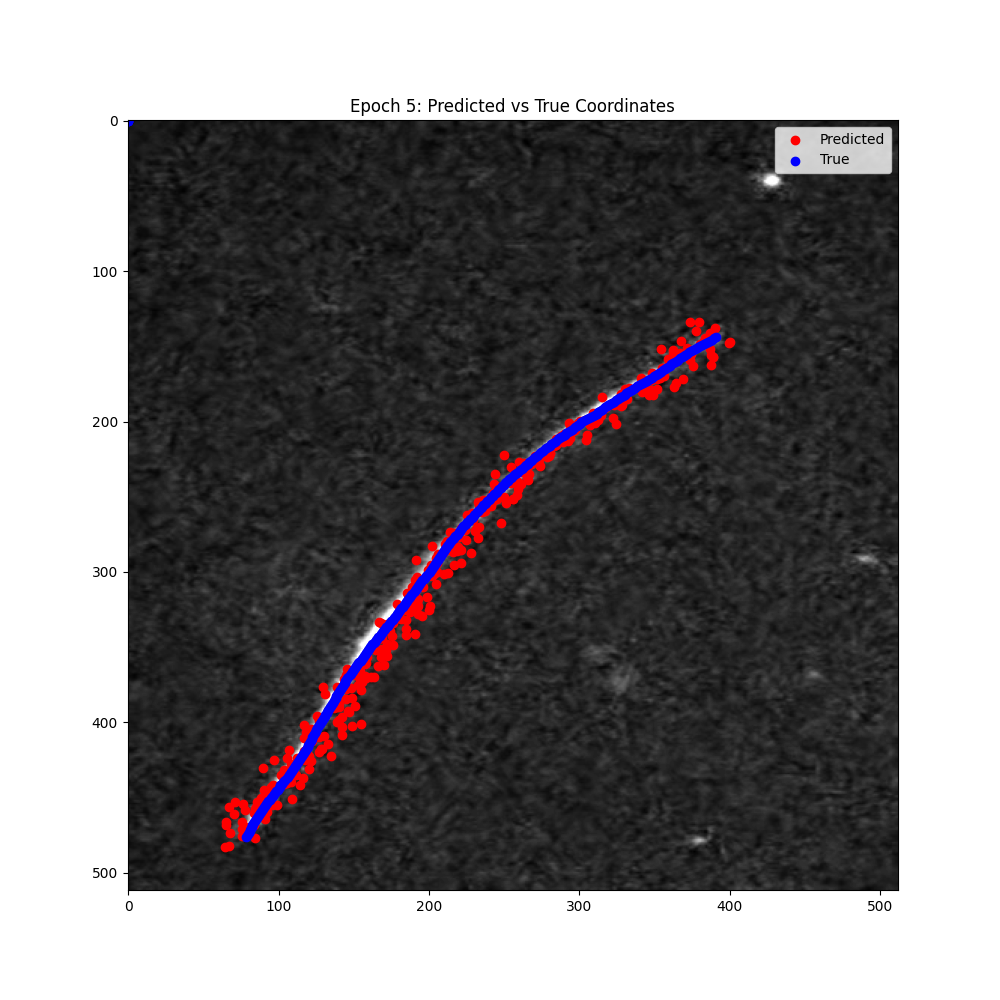
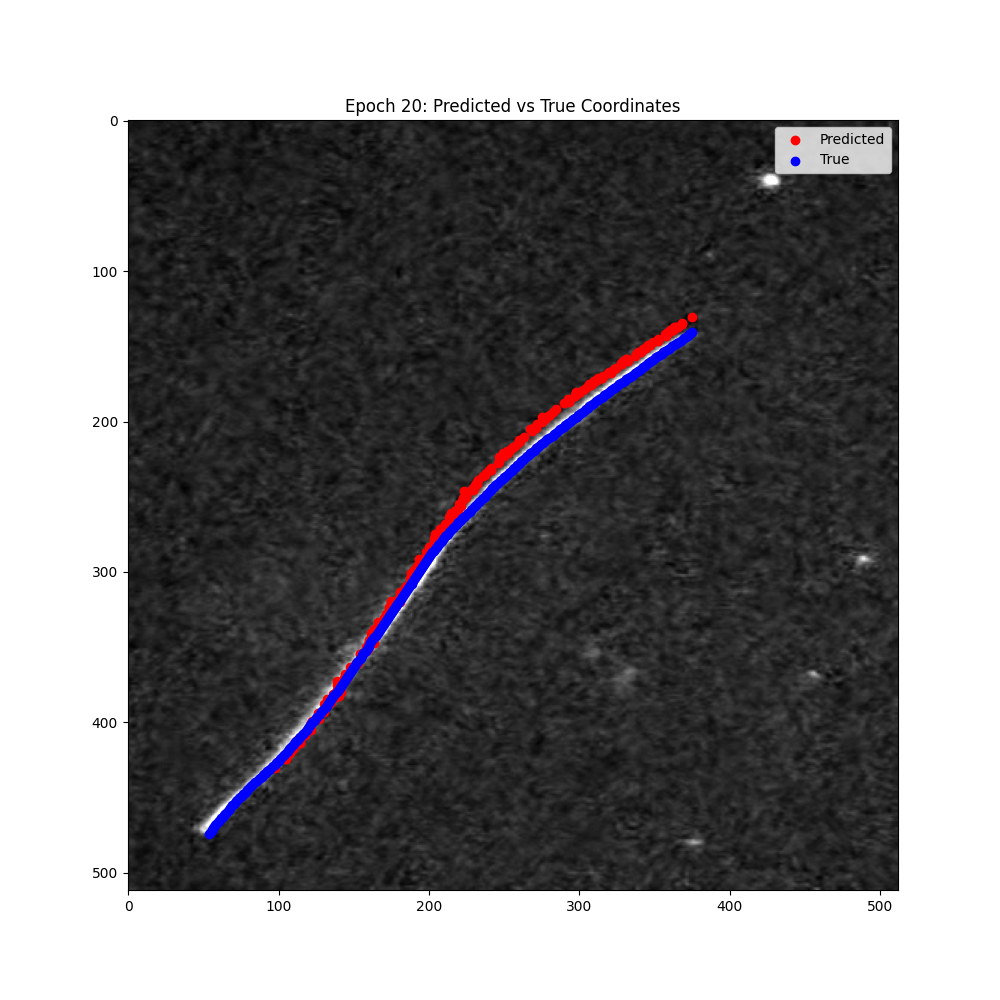
misc
misc changes before I gts (I know these r supposed to be formal but idc)

diff --git a/nn/nn.py b/nn/nn.py
@@ -13,6 +13,7 @@ import argparse
 from scipy.optimize import linear_sum_assignment
 import matplotlib.pyplot as plt
 import warnings
+import torch.optim.lr_scheduler as lr_scheduler
 warnings.filterwarnings("ignore", message="Applied workaround for CuDNN issue, install nvrtc.so")
 
 # Configure logging
@@ -200,7 +201,7 @@ class MicrotubuleTrackingModel(nn.Module):
 
         return x
 
-# Custom loss function using Hungarian algorithm for optimal matching
+# Custom loss function using Hungarian algorithm for optimal matching and MSE calculation
 def custom_loss_function(predicted_coords, true_coords):
     batch_size, num_points, _ = predicted_coords.size()
     total_loss = 0
@@ -233,16 +234,12 @@ def custom_loss_function(predicted_coords, true_coords):
     return total_loss / batch_size
 
 
-
-
-def train(model, dataloader, criterion, optimizer, num_epochs=20, view_last_epoch=False):
+def train(model, dataloader, criterion, optimizer, scheduler, num_epochs=20, view_last_epoch=False):
     scaler = torch.cuda.amp.GradScaler()  # For mixed precision
     middle_frame_image = None
     middle_frame_pred_coords = None
     middle_frame_true_coords = None
-    optimizer = optim.Adam(model.parameters(), lr=args.learning_rate, weight_decay=args.weight_decay)
-    scheduler = optim.lr_scheduler.ReduceLROnPlateau(optimizer, 'min', patience=3, factor=0.5)
-
+    
     for epoch in range(num_epochs):
         model.train()
         epoch_loss = 0
@@ -256,9 +253,14 @@ def train(model, dataloader, criterion, optimizer, num_epochs=20, view_last_epoc
             scaler.step(optimizer)
             scaler.update()
             epoch_loss += loss.item()
-
+          
+            # Save the middle frame data during each epoch
+            if batch_idx == len(dataloader) // 2:
+                middle_frame_image = images[0].cpu().numpy().squeeze()
+                middle_frame_pred_coords = outputs[0].cpu().detach().numpy()
+                middle_frame_true_coords = coords[0].cpu().numpy()
+        scheduler.step(epoch_loss/len(dataloader))
         print(f'Epoch [{epoch+1}/{num_epochs}], Loss: {epoch_loss/len(dataloader)}')
-        scheduler.step(epoch_loss/len(dataloader))  # Adjust learning rate based on epoch loss
 
         # Save the plot each epoch
         if middle_frame_image is not None:
@@ -274,9 +276,8 @@ def train(model, dataloader, criterion, optimizer, num_epochs=20, view_last_epoc
 
         
         # Save the model every epoch
-        torch.save(model.state_dict(), "microtubule_tracking_model.pth")
-        print("Model saved as microtubule_tracking_model.pth")
-
+    torch.save(model.state_dict(), "microtubule_tracking_model.pth")
+    print("Model saved as microtubule_tracking_model.pth")
 
 
 # Testing function
@@ -297,6 +298,12 @@ if __name__ == "__main__":
         data_dir = args.data_dir
         train_image_dirs = [d for d in glob.glob(os.path.join(data_dir, '*')) if os.path.isdir(d)]
 
+        model = MicrotubuleTrackingModel().to(device)
+        model_path = 'microtubule_tracking_model.pth'
+        if os.path.exists(model_path):
+            model.load_state_dict(torch.load(model_path))
+            print(f"Loaded model from {model_path}")
+
         # Loop through each directory separately to train the model sequentially
         for train_image_dir in train_image_dirs:
             train_dataset = MicrotubuleDataset([train_image_dir])
@@ -307,11 +314,11 @@ if __name__ == "__main__":
             model = MicrotubuleTrackingModel().to(device)
             criterion = custom_loss_function
             optimizer = optim.Adam(model.parameters(), lr=args.learning_rate, weight_decay=args.weight_decay)
-
-            train(model, train_dataloader, criterion, optimizer, num_epochs=args.num_epochs, view_last_epoch=True)
+            scheduler = lr_scheduler.ReduceLROnPlateau(optimizer, mode='min', factor=0.5, patience=5)
+            train(model, train_dataloader, criterion, optimizer, scheduler, num_epochs=args.num_epochs, view_last_epoch=True)
 
             # Save model after training on each dataset
-            torch.save(model.state_dict(), f'model_after_{os.path.basename(train_image_dir)}.pth')
+            torch.save(model.state_dict(), f'model.pth')
 
             # Optionally, test the model on a separate test dataset after training on each dataset
             if args.test_image_dirs:
